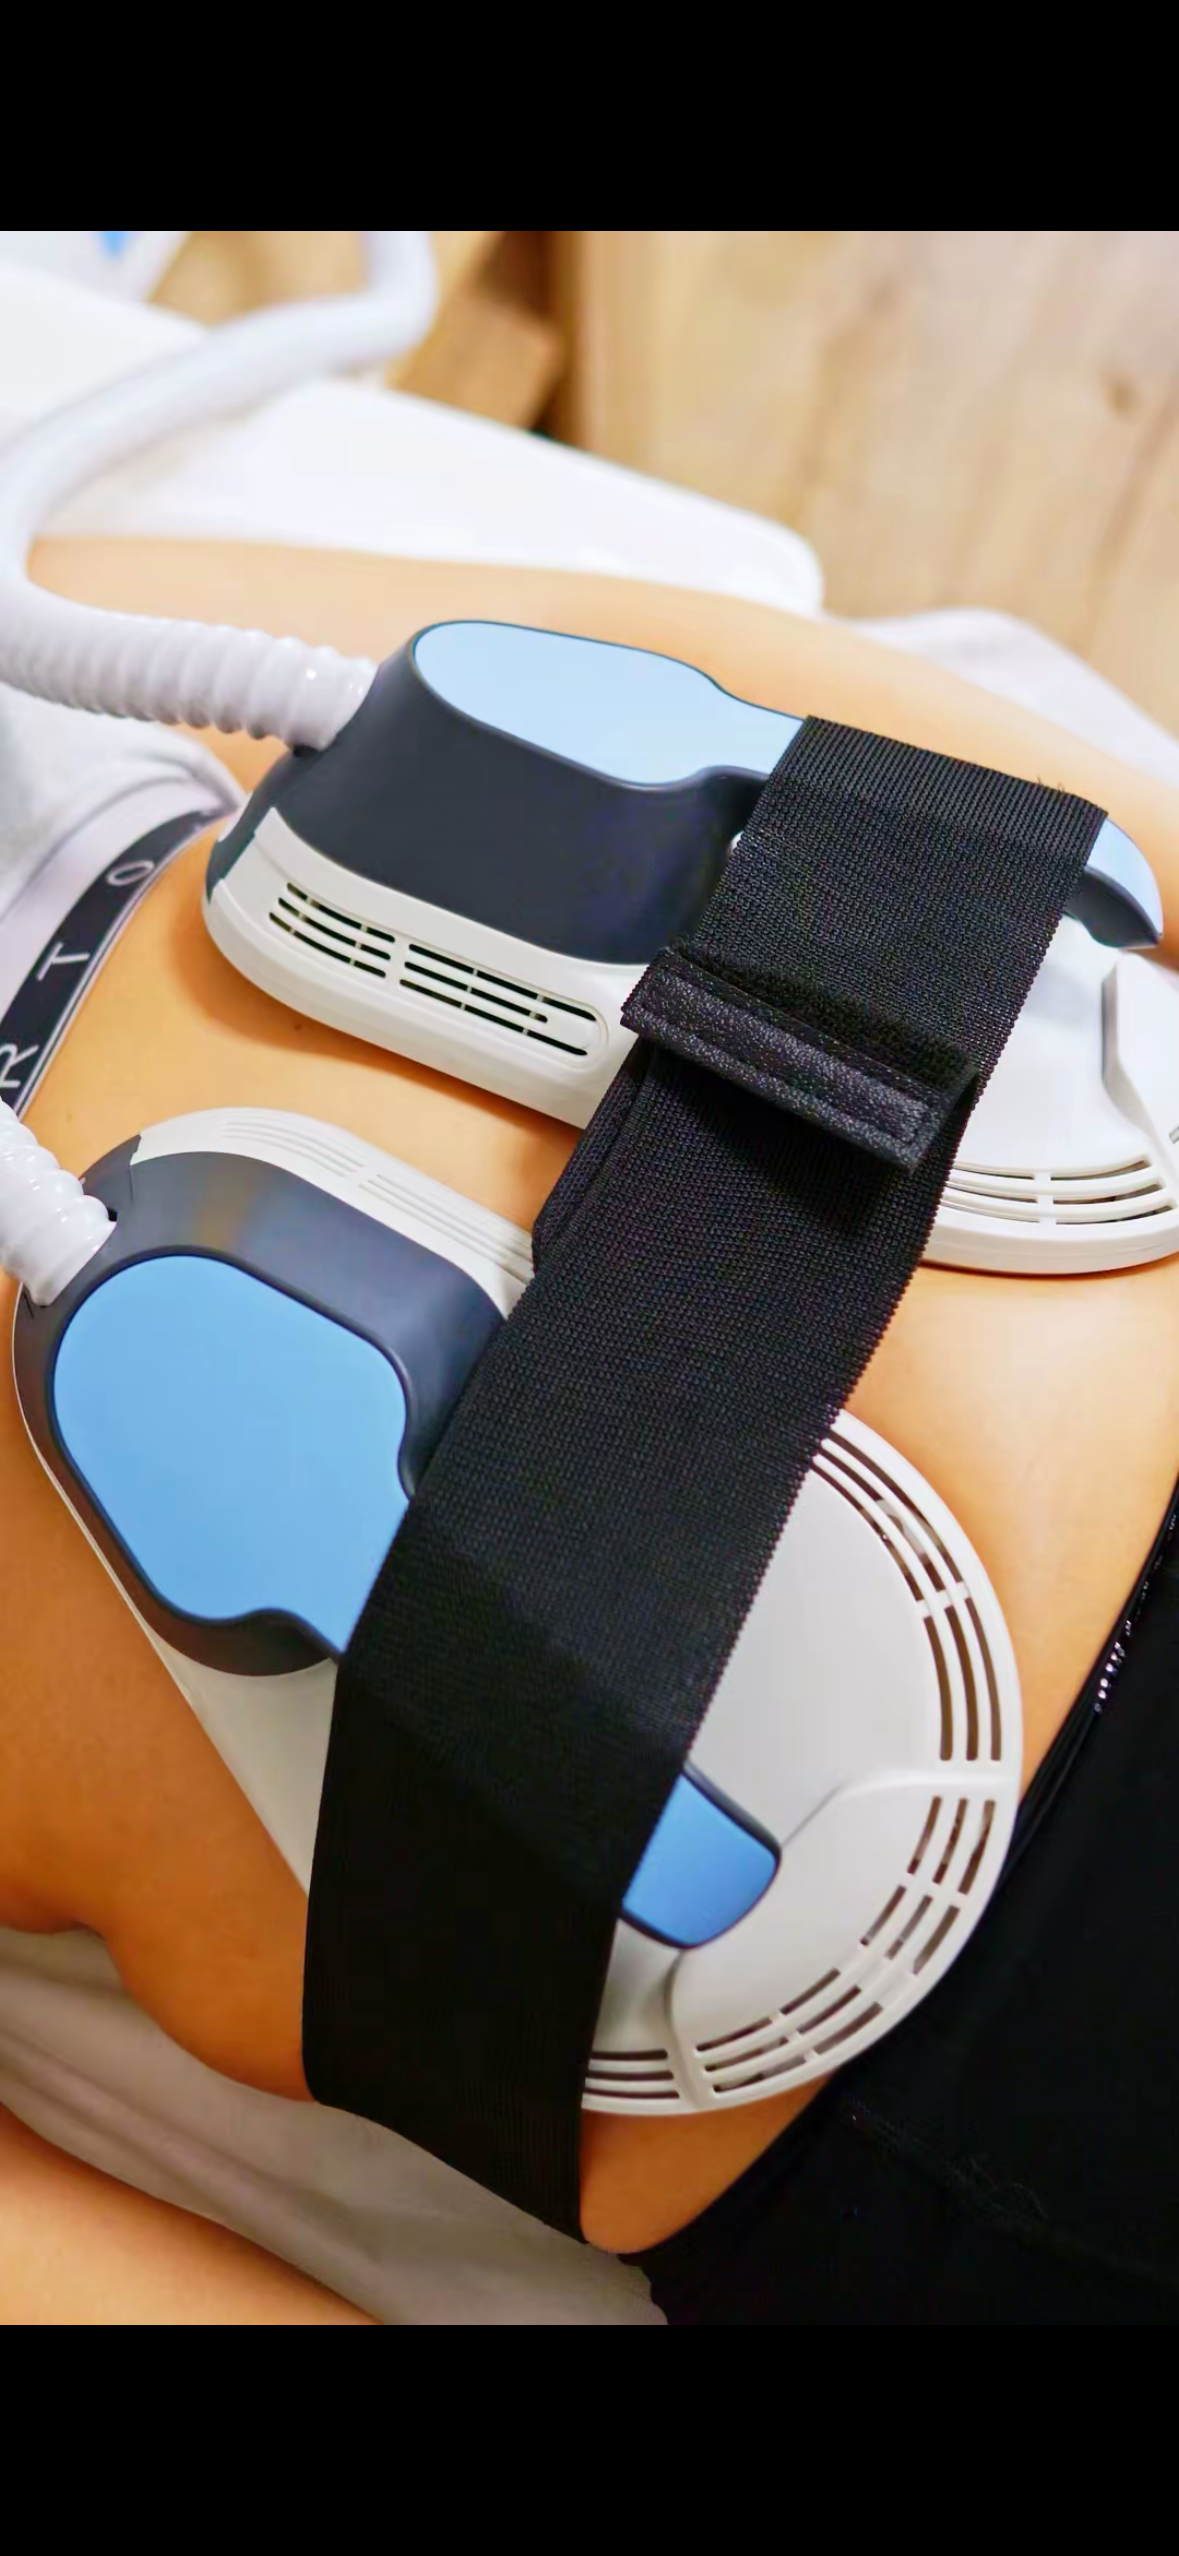
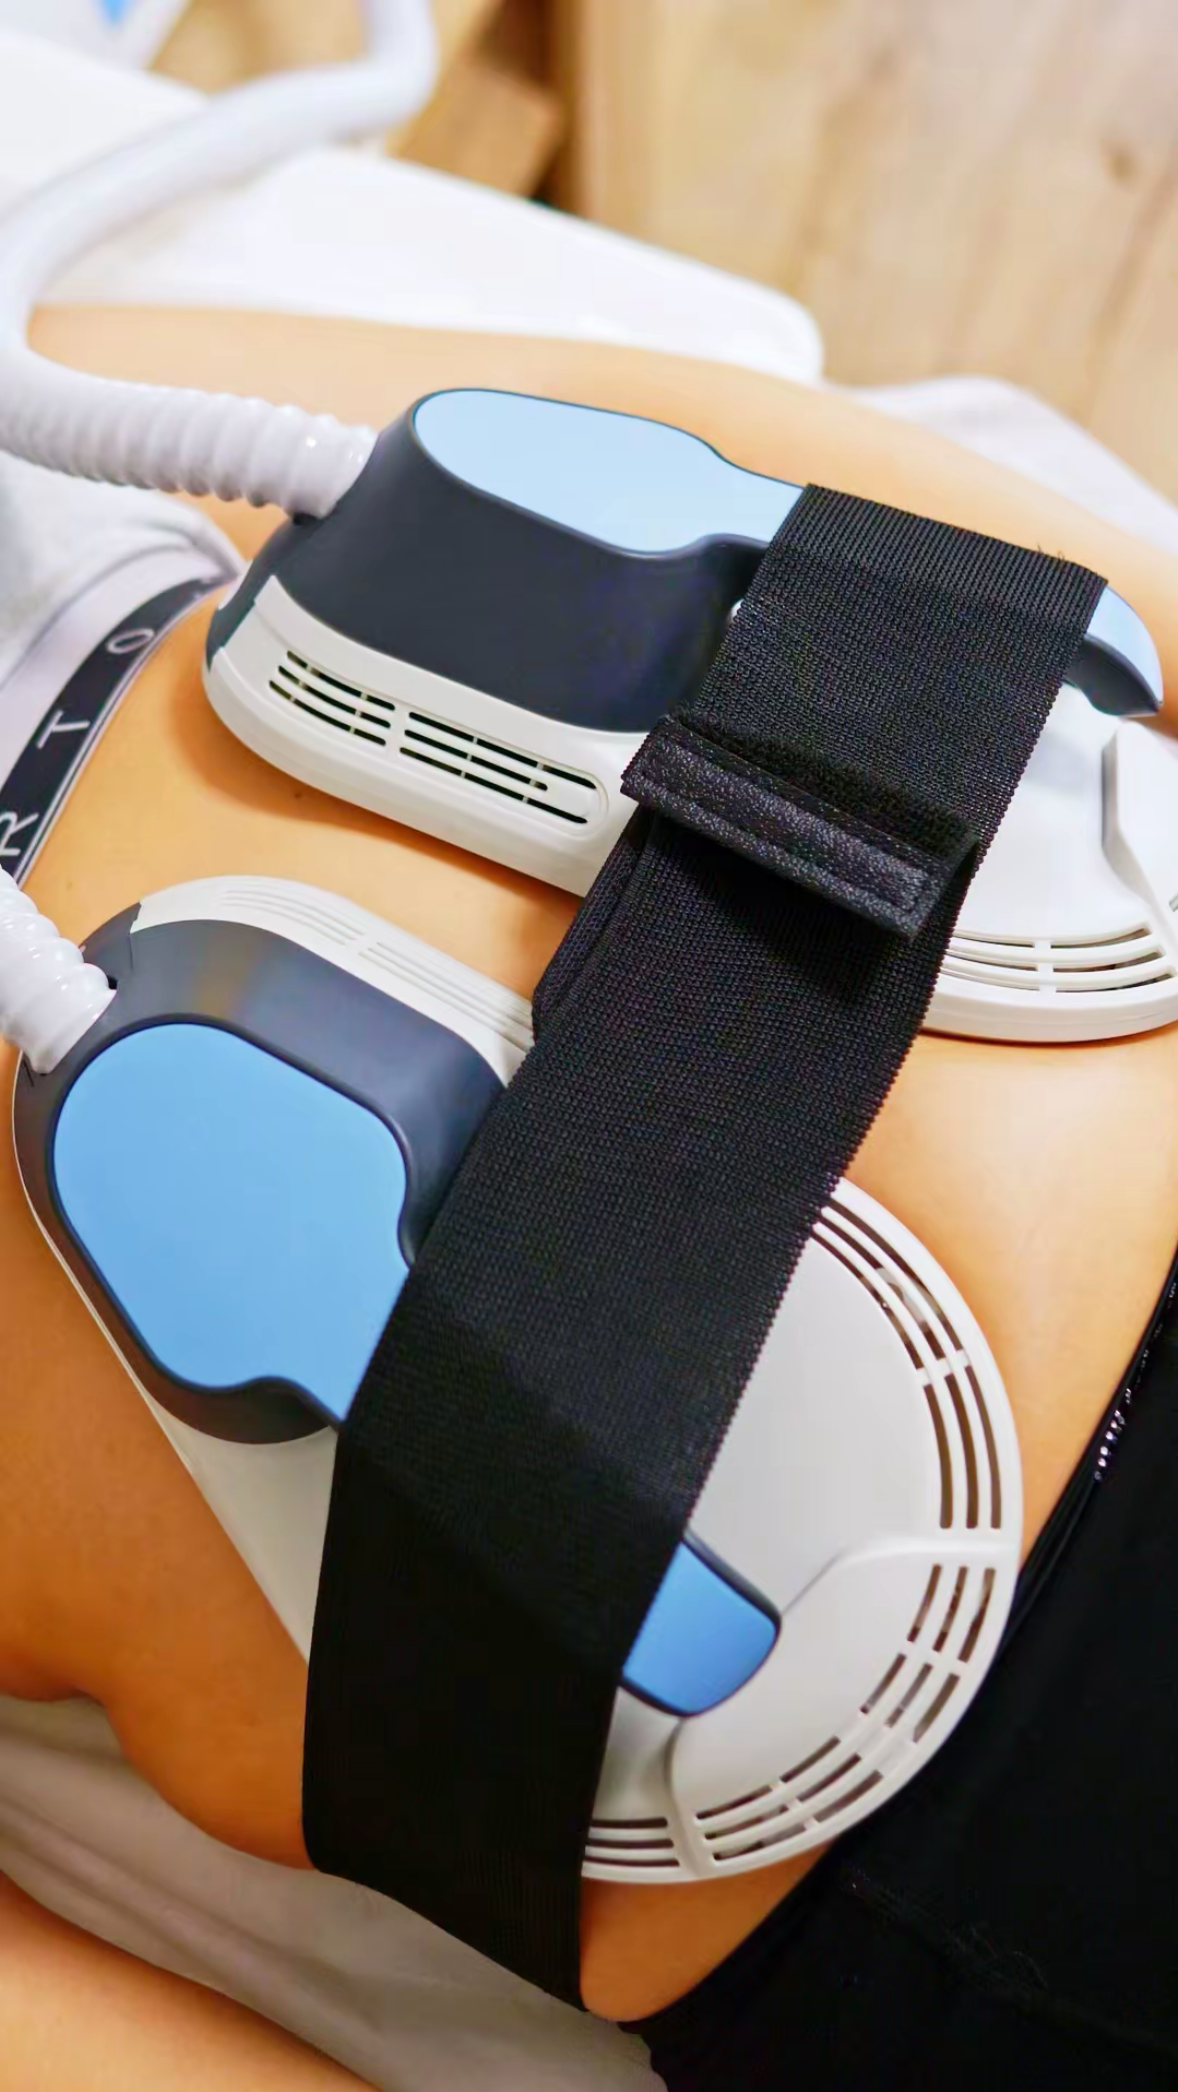
Crop letterboxed treatment photos and widen hair removal video to 16:9
Removes black bars from the three uploaded treatment photos, and
switches the hair removal video from the phone (9:16) mockup to a
proper 16:9 widescreen frame matching its actual aspect ratio.

Claude-Session: https://claude.ai/code/session_01GSjyjWsgk81dRkUyMms65x

diff --git a/szolgaltatasok.html b/szolgaltatasok.html
@@ -31,10 +31,15 @@
   .vband h2 em{font-style:normal;font-weight:500;color:var(--rosegold)}
   .vband p{color:var(--mokka);line-height:1.8;max-width:440px}
 
+  #video-band2 .vband{grid-template-columns:1fr 460px}
+  .widescreen{position:relative;width:100%;border-radius:14px;overflow:hidden;box-shadow:0 24px 54px rgba(58,14,28,.20);border:1px solid rgba(224,62,99,.14);background:#000}
+  .widescreen video{width:100%;aspect-ratio:16/9;object-fit:cover;display:block}
+
   @media(max-width:820px){
     .svc-cards{grid-template-columns:1fr}
     .vband{grid-template-columns:1fr;gap:2rem;text-align:center}
     .phone{max-width:230px}
+    #video-band2 .vband{grid-template-columns:1fr}
   }
 </style>
 </head>
@@ -123,16 +128,14 @@
 </section>
 
 <section class="section" id="video-band2" style="background:var(--cream)">
-  <div class="vband" style="grid-template-columns:1fr 300px">
+  <div class="vband">
     <div class="reveal">
       <div class="about-eyebrow">Végleges szőrtelenítés</div>
       <h2>Diódalézeres <em>szőrtelenítés</em></h2>
       <p>A ma ismert leghatékonyabb szőrtelenítési eljárás: fájdalommentes, bármely testtájon alkalmazható, és 10 alkalom alatt a szőrök akár 90%-a végleg eltávozik.</p>
     </div>
-    <div class="phone reveal">
-      <div class="screen">
-        <video src="images/vegleges-szortelenites.mp4" muted autoplay loop playsinline controls preload="metadata"></video>
-      </div>
+    <div class="widescreen reveal">
+      <video src="images/vegleges-szortelenites.mp4" muted autoplay loop playsinline controls preload="metadata"></video>
     </div>
   </div>
   <div class="sec-cta reveal"><a href="foglalas.html" class="btn"><span>Időpontot foglalok</span></a></div>
